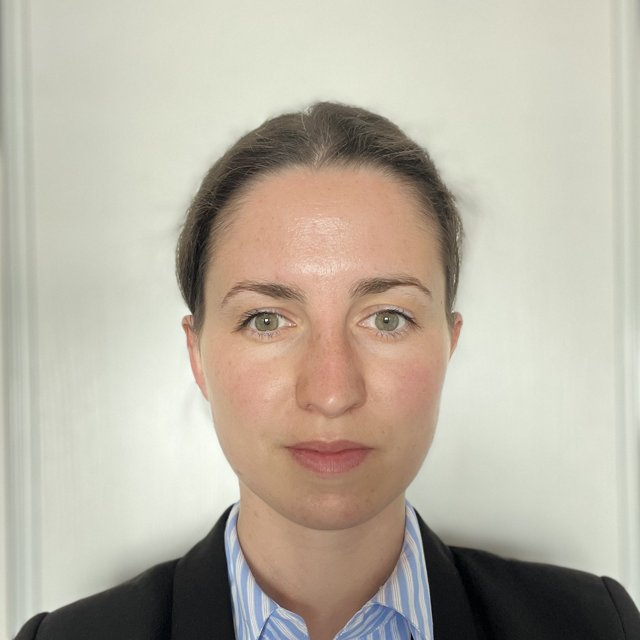
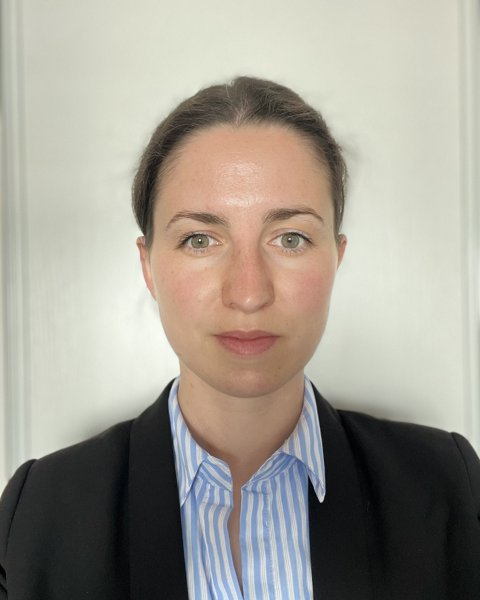
Photo : format rectangle arrondi, plus petite
Claude-Session: https://claude.ai/code/session_01KW5oHxSixNGfR2HUA6M3hk

diff --git a/index.html b/index.html
@@ -50,8 +50,8 @@
   .tag{background:var(--accent-soft);color:var(--accent);padding:6px 12px;border-radius:999px;font-size:.88rem;font-weight:500}
   .tag.dispo{background:#efe5d6;color:#7a5c38}
   .actions{display:flex;gap:12px;flex-wrap:wrap}
-  .photo{width:100%;max-width:340px;aspect-ratio:1;object-fit:cover;border-radius:50%;justify-self:center;border:6px solid #fff;box-shadow:0 10px 30px rgba(31,42,55,.12)}
-  @media(max-width:760px){.hero{grid-template-columns:1fr;gap:32px;padding-top:40px}.photo{max-width:220px;order:-1}}
+  .photo{width:100%;max-width:250px;aspect-ratio:4/5;object-fit:cover;object-position:center top;border-radius:20px;justify-self:center;box-shadow:0 10px 30px rgba(31,42,55,.14)}
+  @media(max-width:760px){.hero{grid-template-columns:1fr;gap:32px;padding-top:40px}.photo{max-width:180px;order:-1}}
 
   /* Chiffres */
   .stats{display:grid;grid-template-columns:repeat(4,1fr);gap:16px}
